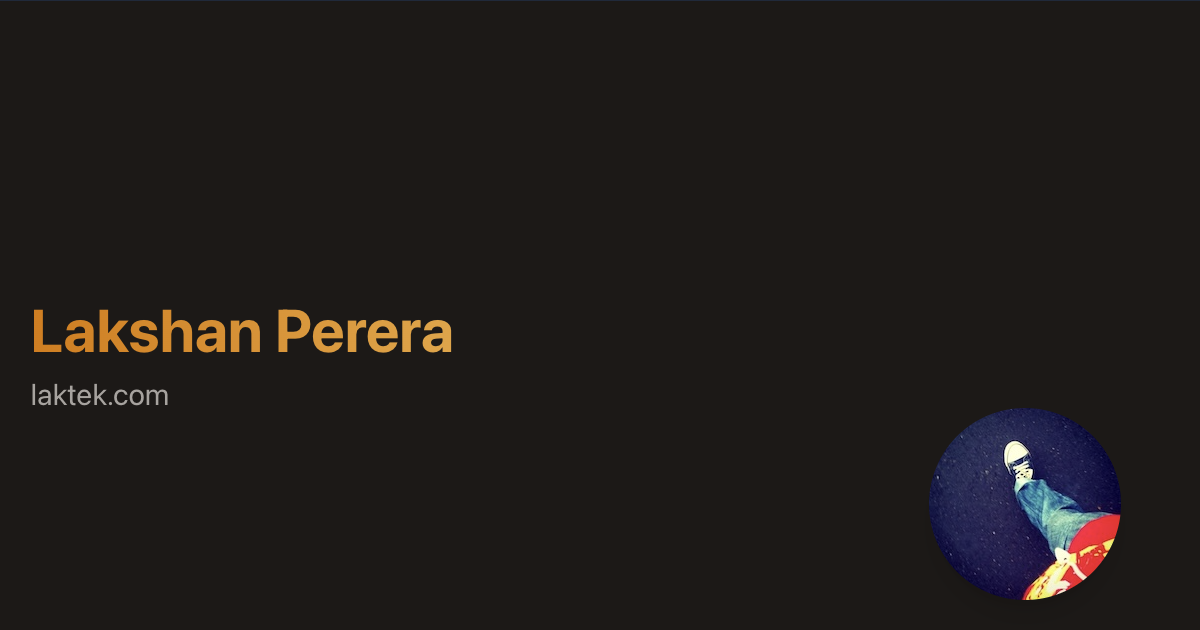
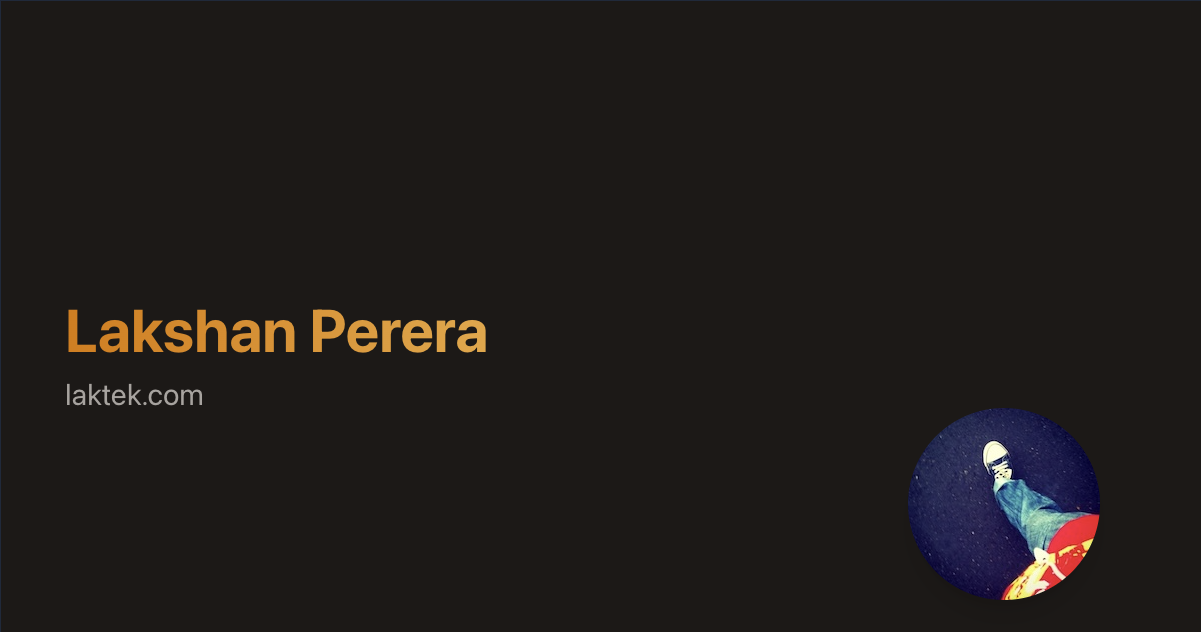
update og-image

Changed region(s): [[0.74, 0.6333, 0.9558, 0.9651], [0.0, 0.4825, 0.4317, 0.573], [0.0308, 0.6032, 0.185, 0.6635]]

diff --git a/pages/og.html b/pages/og.html
@@ -2,7 +2,7 @@
 <html lang=${ site.language }>
   ${ Punch.partial("head", { site, title: "Lakshan Perera's personal website"  }) }
   <body>
-      <div class="w-[1205px] h-[635px] px-8 grid grid-cols-4 place-content-end border-slate-800 border-2">
+      <div class="w-[1205px] h-[635px] px-16 grid grid-cols-4 place-content-end border-slate-800 border-2">
         <h1 class="col-span-4 row-span-3 bg-clip-text text-transparent bg-gradient-to-r from-red-800 to-red-400 dark:from-amber-600 dark:to-amber-200 hover:bg-gradient-to-br text-6xl font-bold my-4">
           Lakshan Perera
         </h1>
